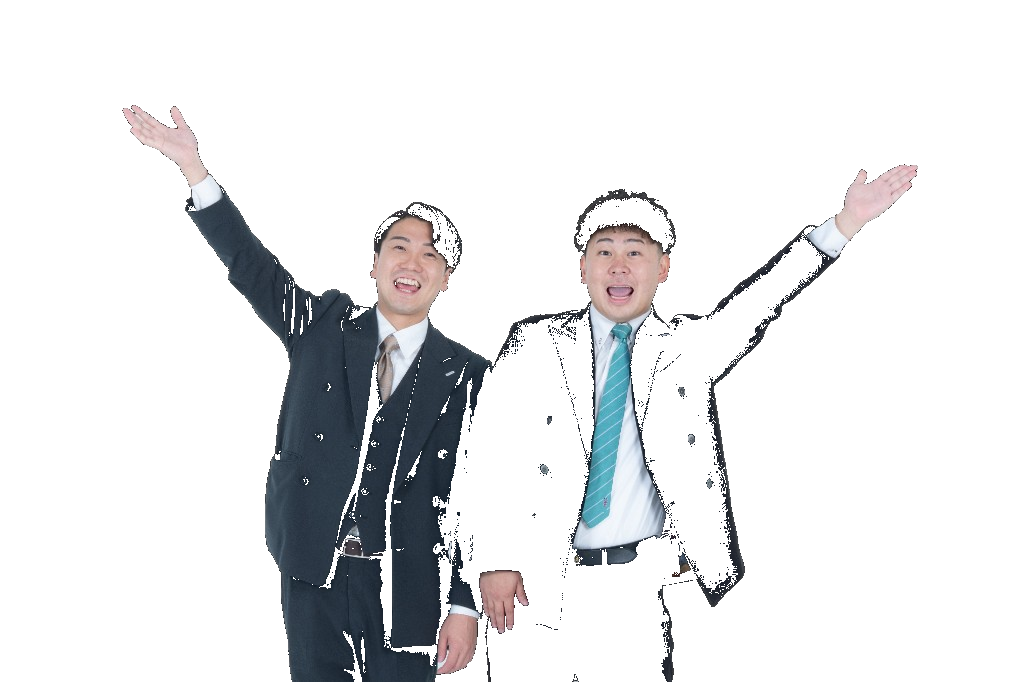
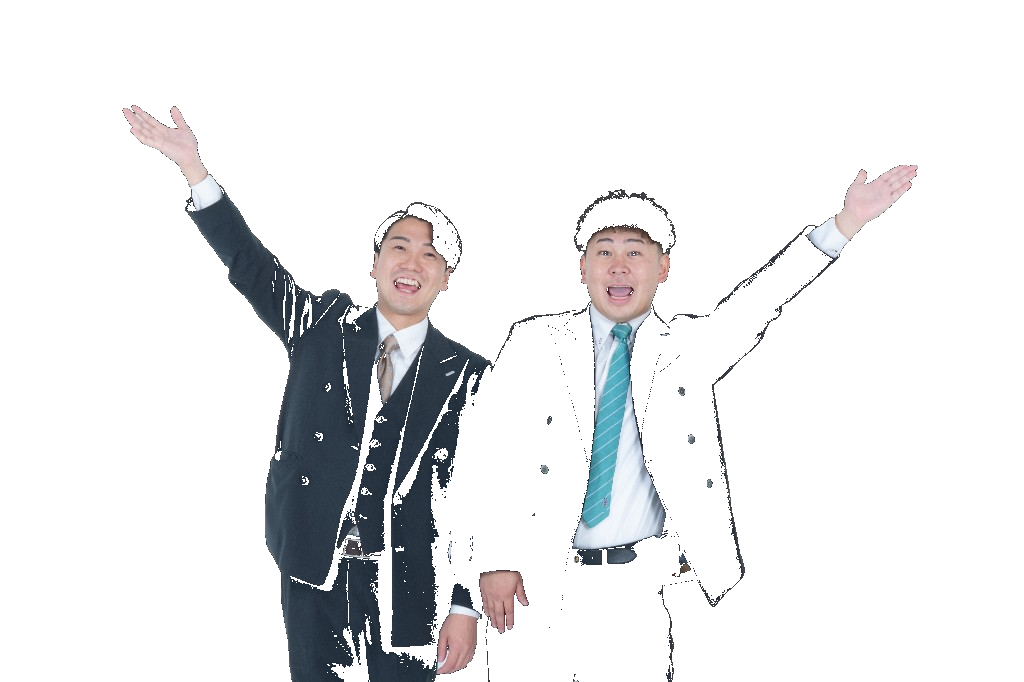
Resize founders card to original ratio and scale promo photo.
Match the 854x856 card frame, overlay a larger transparent founders image from the bottom, and leave room above the card so raised arms extend outside the frame.

diff --git a/components/recruit/founders-photo.tsx b/components/recruit/founders-photo.tsx
@@ -3,27 +3,33 @@ import { motion } from "framer-motion";
 
 const FOUNDERS_IMAGE = "/images/founders.png";
 
+// Original founders card ratio (854 x 856)
+const CARD_ASPECT = "854 / 856";
+
 export function FoundersPhoto() {
   return (
     <motion.div
-      className="relative mx-auto w-full max-w-[420px] overflow-visible"
+      className="relative w-full overflow-visible"
       animate={{ y: [0, 8, 0] }}
       transition={{ duration: 7, repeat: Infinity, ease: "easeInOut" }}
     >
-      <div className="relative overflow-visible pb-1 pt-12">
-        <div className="relative aspect-[3/4] w-full">
+      <div className="relative overflow-visible pt-[38%]">
+        <div
+          className="relative w-full overflow-visible"
+          style={{ aspectRatio: CARD_ASPECT }}
+        >
           <div
             aria-hidden
-            className="absolute inset-0 rounded-[1.75rem] border border-red-100 bg-white shadow-[0_18px_40px_rgba(217,43,52,0.12)]"
+            className="absolute inset-0 z-0 rounded-[1.75rem] border border-red-100 bg-white shadow-[0_18px_40px_rgba(217,43,52,0.12)]"
           />
 
-          <div className="absolute -top-[18%] right-0 bottom-0 left-0 z-10 overflow-visible">
+          <div className="absolute bottom-0 left-1/2 z-10 aspect-[1024/682] w-[195%] max-w-none -translate-x-1/2 overflow-visible">
             <Image
               src={FOUNDERS_IMAGE}
               alt="けーさんとたろー"
               fill
-              className="object-contain object-bottom [filter:drop-shadow(0_14px_22px_rgba(15,23,42,0.2))]"
-              sizes="(max-width: 768px) 92vw, 420px"
+              className="object-contain object-bottom [filter:drop-shadow(0_16px_24px_rgba(15,23,42,0.22))]"
+              sizes="(max-width: 768px) 92vw, 520px"
               priority
             />
           </div>